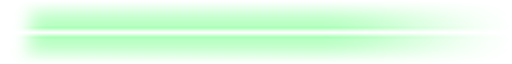
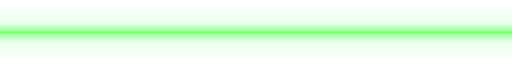
Modified laser & crystal assets

diff --git a/Unity/Assets/Scripts/Objects/Usables/Weapons/Laser.cs b/Unity/Assets/Scripts/Objects/Usables/Weapons/Laser.cs
@@ -8,7 +8,7 @@ using UnityEditor;
 
 namespace EventHorizon.Objects
 {
-    public enum LaserType { Normal, Reflected, PierceThroughShield };
+    public enum LaserType { Beacon, Normal, Reflected, PierceThroughShield };
 
     struct Gravitation
     {
@@ -52,7 +52,7 @@ namespace EventHorizon.Objects
         public Material laserMat;
         List<Vector3> laserHits;
         float lastShot = 0;
-        const float cooldown = 0.005F;
+        const float cooldown = 0.002F;
         const int laserHitsLimit = 20;
         Vector3 lastBounce;
         bool firstRay = true;
@@ -127,9 +127,19 @@ namespace EventHorizon.Objects
 
         private void Awake()
         {
-            laserHits = new List<Vector3>(laserHitsLimit + 1);
-            segments = new LineRenderer[laserHitsLimit + 1];
-            MarkedHit = new List<Mobile>();
+            if (laserType == LaserType.Beacon)
+            {
+                laserHits = new List<Vector3>(1);
+                segments = new LineRenderer[1];
+            }
+
+            else
+            {
+                laserHits = new List<Vector3>(laserHitsLimit + 1);
+                segments = new LineRenderer[laserHitsLimit + 1];
+                MarkedHit = new List<Mobile>();
+            }
+
             gravitationData = new Dictionary<Transform, Gravitation>();
 
             for (int i = 0; i < segments.Length; i++)
@@ -226,7 +236,7 @@ namespace EventHorizon.Objects
 
         private void OnDestroy()
         {
-            DisableAllSegments();
+            //DisableAllSegments();
         }
 
         private void CheckForTouchedShips()
@@ -285,13 +295,13 @@ namespace EventHorizon.Objects
                         CastLaserSegment(temp);
                     }
 
-                    else if (laserType == LaserType.Reflected && hit.collider.gameObject.tag == "Reflective")
+                    else if ((laserType == LaserType.Reflected) && hit.collider.gameObject.tag == "Reflective")
                     {
                         CastLaserSegment(new Ray(hit.point, bounce));
                         return;
                     }
 
-                    else if (hit.collider.gameObject.tag == "Normal")
+                    //else if (hit.collider.gameObject.tag == "Normal")
                         laserHits.Add(hit.point);
                 }
 
@@ -306,7 +316,9 @@ namespace EventHorizon.Objects
                 }
             }
 
-            CheckForTouchedShips();
+            if (laserType != LaserType.Beacon)
+                CheckForTouchedShips();
+
             DrawLaser();
         }
 
@@ -330,6 +342,9 @@ namespace EventHorizon.Objects
                 segments[i].SetPosition(1, laserHits[i + 1]);
 
                 segments[i].SetWidth(0.2F, 0.2F);
+
+                if (i == laserHits.Count - 2)
+                    segments[i].SetColors(Color.white, new Color(1, 1, 1, 0));
             }
 
             //StartCoroutine(DisplayLaser(0.02F));
